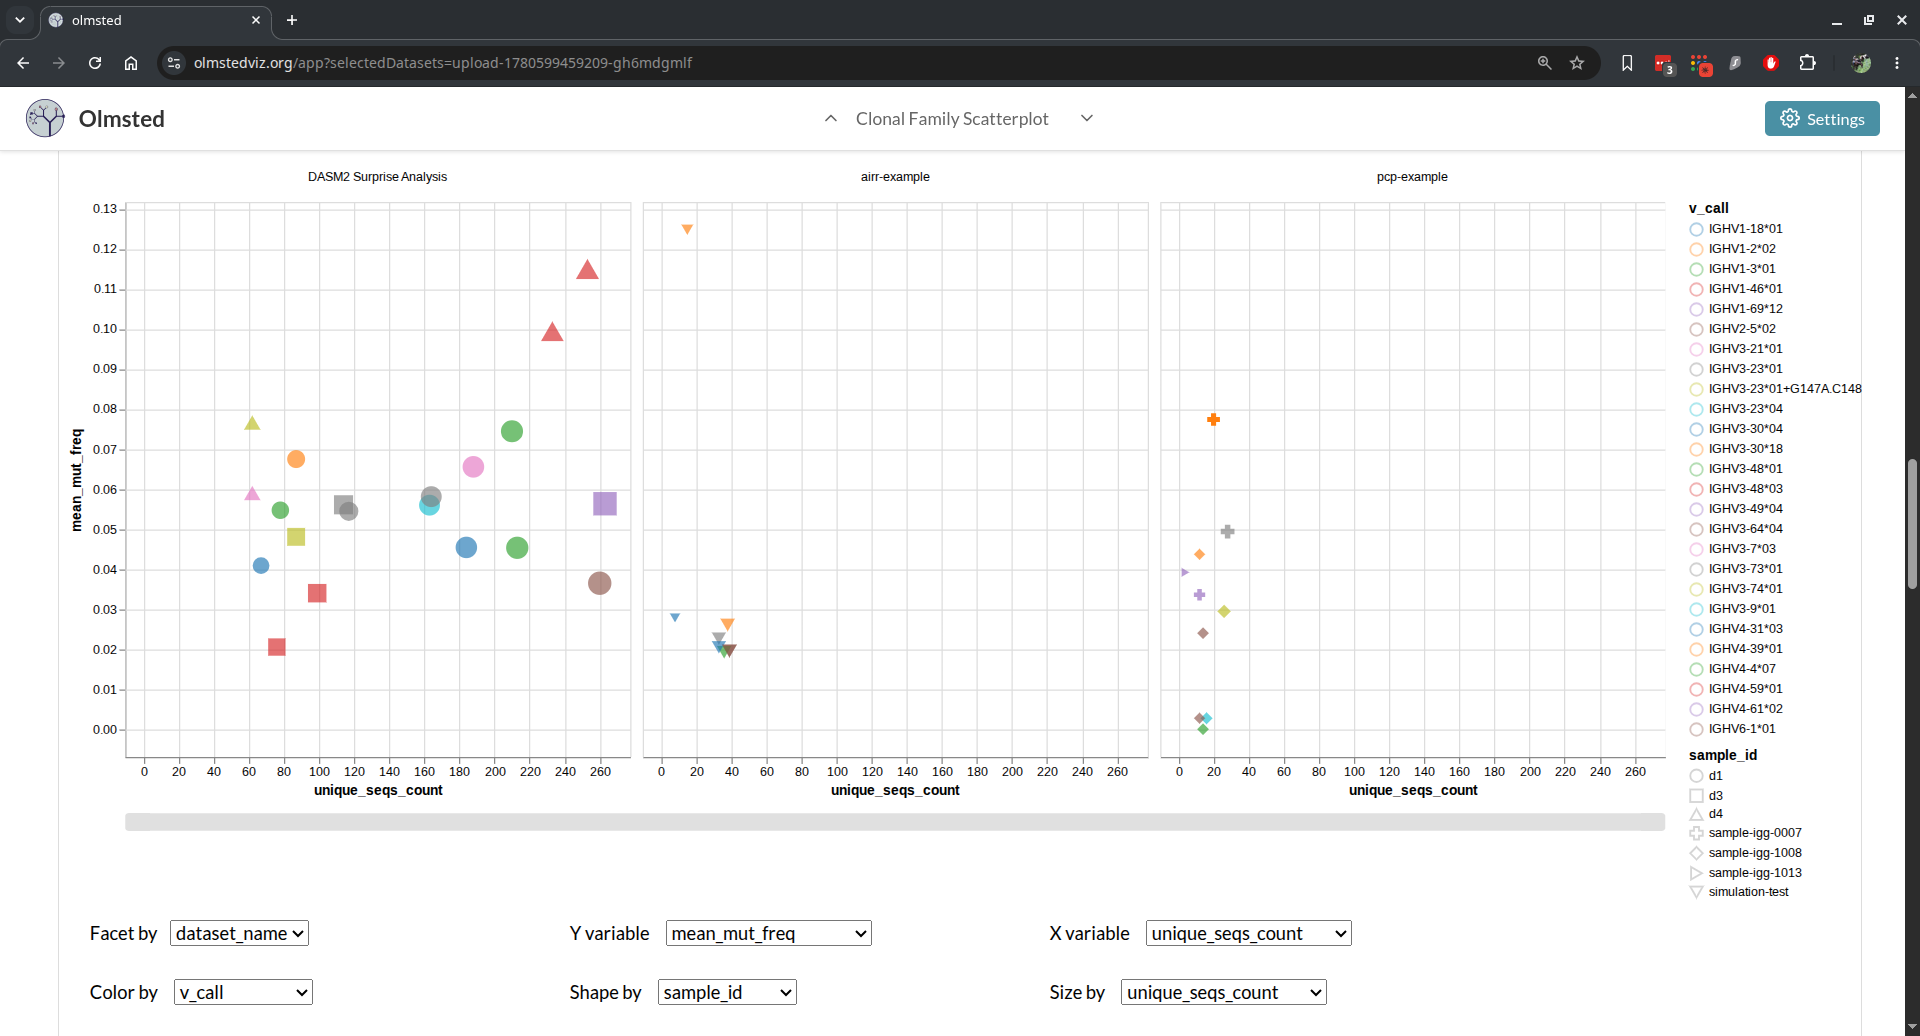
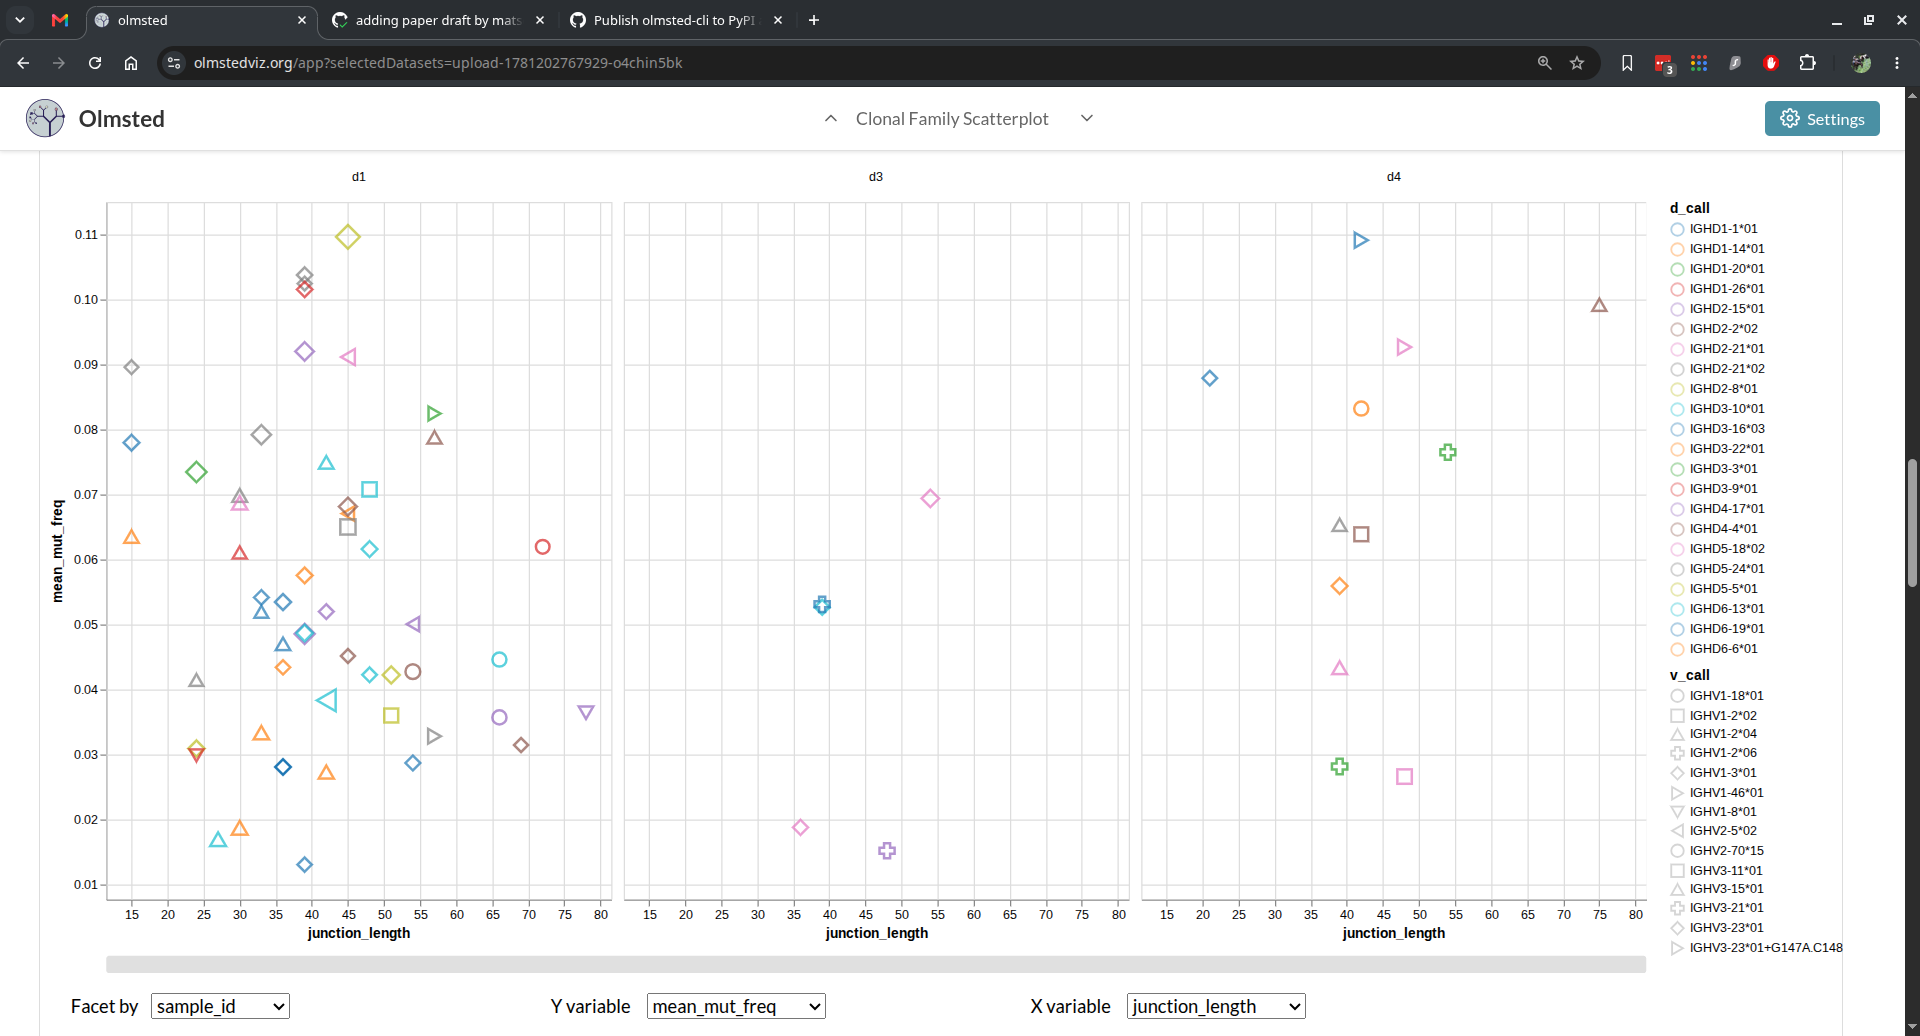
update to images (with D genes)

diff --git a/paper/paper.md b/paper/paper.md
@@ -140,7 +140,7 @@ The tree and alignment support zooming and panning, as well as focusing to a sub
 4. **Ancestral Sequences**: For a selected leaf, displays the complete mutational path from the naive sequence.
 For this and the clonal family tree view, mutations can be colored by an arbitrary value expressed in the data.
 
-![Example ancestral sequence visualization.](./images/2-07-ancestral-sequences.png){height="3in"}
+![Example ancestral sequence visualization.](./images/2-06-ancestral-sequences.png){height="3in"}
 
 # Implementation
 